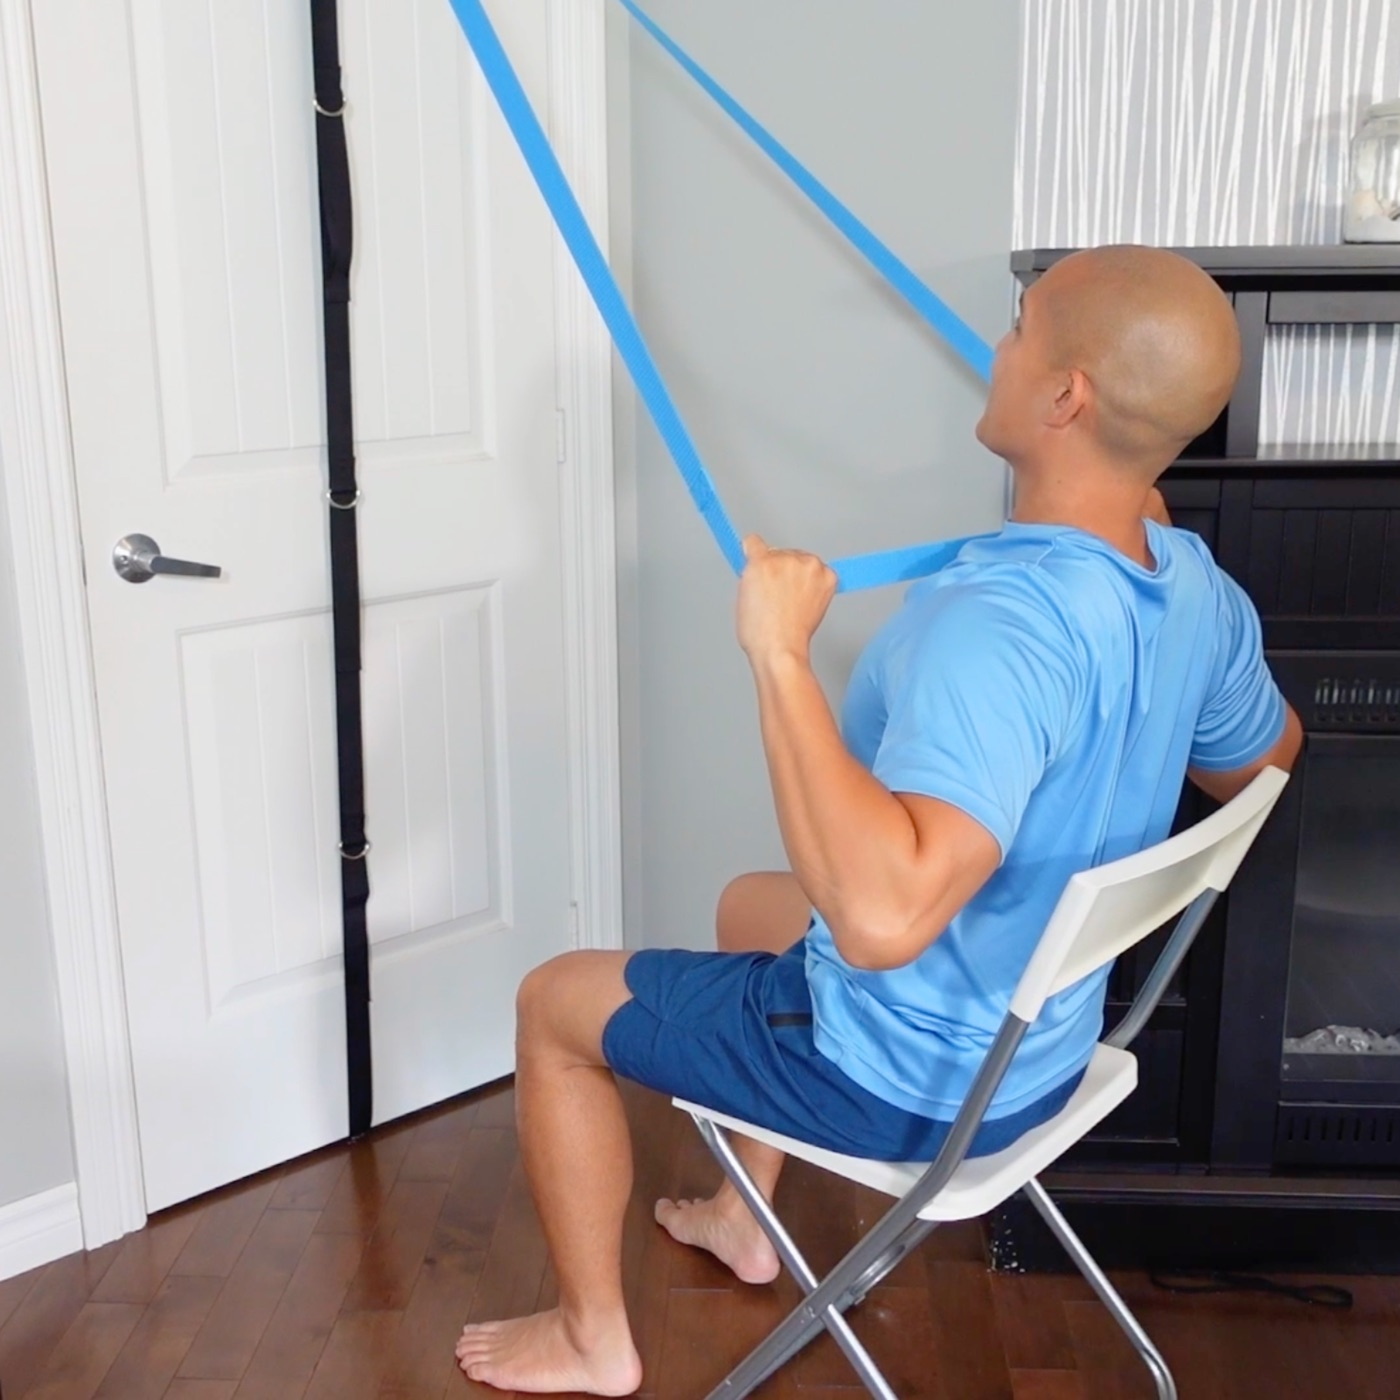
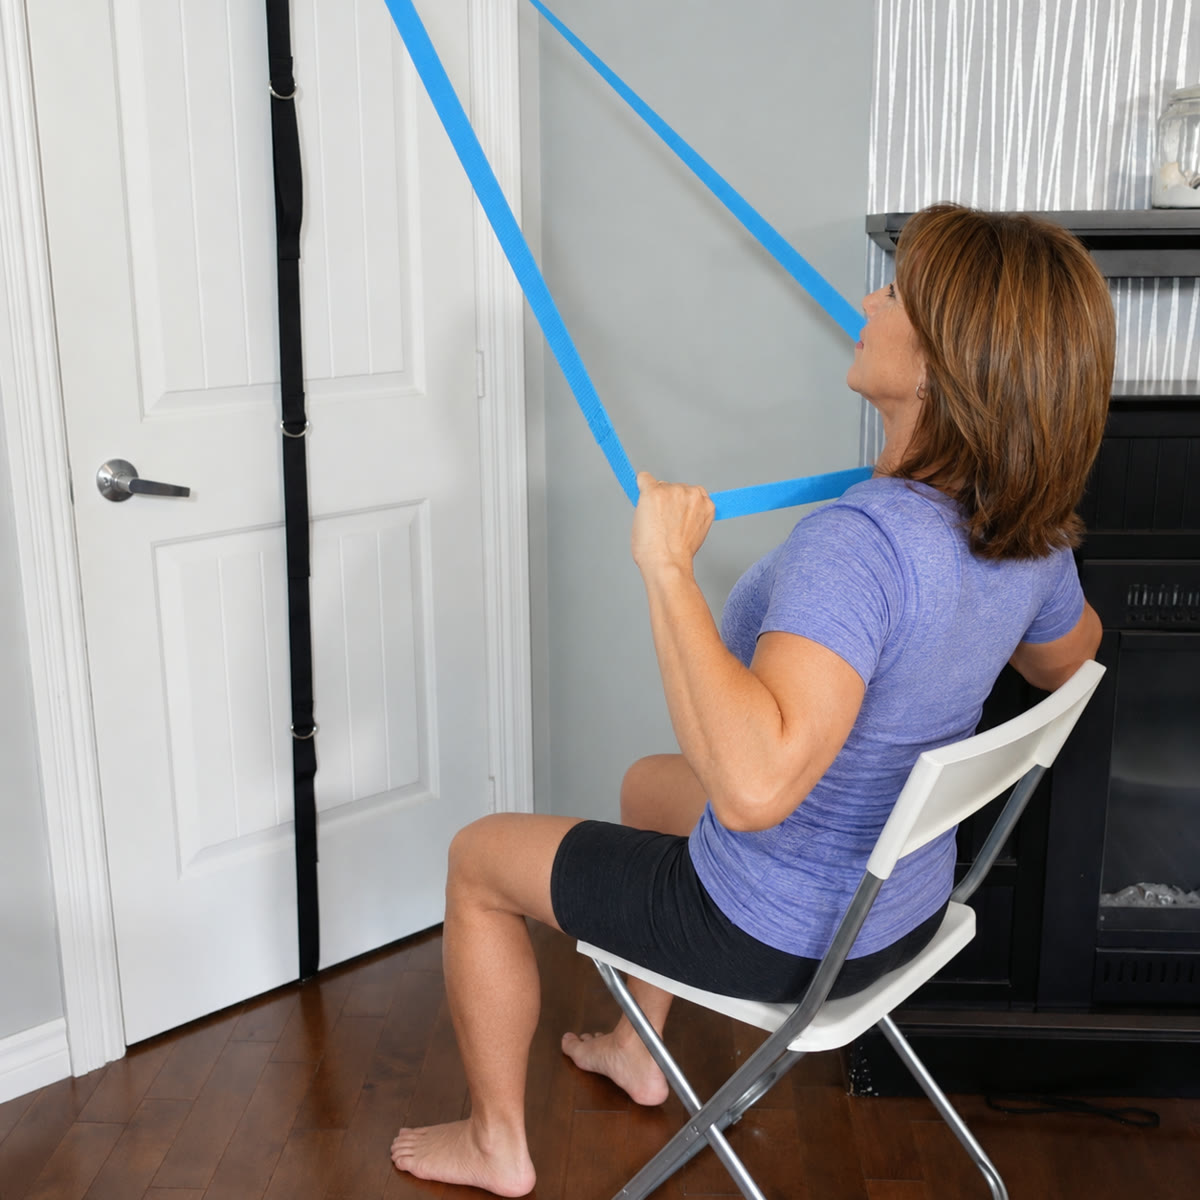
Swap in revised product and model photography; reword closing CTA

diff --git a/index.html b/index.html
@@ -10,12 +10,12 @@
 <meta property="og:type" content="product">
 <meta property="og:title" content="JA Beginner Bands | Start your fitness journey with confidence.">
 <meta property="og:description" content="Six soft-fabric resistance bands built for total beginners. Gentle on joints, kind to skin. Rated 4.6★ by 190+ Amazon customers.">
-<meta property="og:image" content="assets/img/kit.jpg">
+<meta property="og:image" content="assets/img/kit.jpg?v=2">
 
 <link rel="preconnect" href="https://fonts.googleapis.com">
 <link rel="preconnect" href="https://fonts.gstatic.com" crossorigin>
 <link href="https://fonts.googleapis.com/css2?family=Inter:wght@700;800&family=Source+Sans+3:ital,wght@0,400..700;1,400..600&display=swap" rel="stylesheet">
-<link rel="stylesheet" href="styles.css?v=12">
+<link rel="stylesheet" href="styles.css?v=13">
 
 <script type="application/ld+json">
 {
@@ -24,7 +24,7 @@
   "name": "JA Beginner Bands, Set of 6",
   "brand": { "@type": "Brand", "name": "JA Beginner Bands" },
   "description": "Set of 6 soft-fabric resistance bands designed for total beginners, seniors and people with limited mobility. Includes door attachment, travel pouch and free workout videos by Justin Agustin.",
-  "image": "assets/img/kit.jpg",
+  "image": "assets/img/kit.jpg?v=2",
   "aggregateRating": { "@type": "AggregateRating", "ratingValue": "4.6", "reviewCount": "193" },
   "offers": [
     { "@type": "Offer", "priceCurrency": "USD", "price": "49.99", "availability": "https://schema.org/InStock", "url": "https://www.amazon.com/dp/B0DLPWCJYR" },
@@ -226,7 +226,7 @@
 
     <div class="inside__grid">
       <figure class="inside__fig rv">
-        <img src="assets/img/kit.jpg" alt="The full Beginner Bands set on a kitchen counter: the blue box, three wide loop bands and three long bands in grey, blue and navy, plus the black door anchor" width="1700" height="1700" loading="lazy">
+        <img class="cutout" src="assets/img/kit.jpg?v=2" alt="The full Beginner Bands set: the blue box, three short wide bands and three long bands in grey, blue and navy, plus the black door attachment" width="1200" height="1200" loading="lazy">
       </figure>
 
       <ol class="inside__list">
@@ -274,7 +274,7 @@
 <section class="sec fabric" id="fabric">
   <div class="wrap fabric__in">
     <figure class="fabric__fig rv">
-      <img src="assets/img/fabric.jpg" alt="Justin Agustin seated, exercising with a blue fabric band looped under both feet" width="1400" height="1400" loading="lazy">
+      <img src="assets/img/fabric.jpg?v=2" alt="A woman seated in her living room, straightening one leg against a soft lilac band looped around her feet" width="1200" height="1200" loading="lazy">
       <figcaption>Woven cotton blend with a soft matte finish.</figcaption>
     </figure>
 
@@ -326,7 +326,7 @@
     </div>
 
     <figure class="steps__shot rv">
-      <img src="assets/img/door.jpg" alt="Justin Agustin seated, gently pulling a blue band attached to the top of a door" width="1400" height="1400" loading="lazy">
+      <img src="assets/img/door.jpg?v=2" alt="A woman seated on a chair, pulling a blue band down from the door attachment" width="1200" height="1200" loading="lazy">
       <figcaption>Upgrade your door in minutes. The attachment is ideal for doors up to 7 feet tall (84").</figcaption>
     </figure>
   </div>
@@ -455,7 +455,7 @@
 <!-- ───────────────────────── FINAL CTA ───────────────────────── -->
 <section class="cta">
   <div class="wrap cta__in">
-    <h2 class="rv">The hardest step<br><em>is the first one.</em></h2>
+    <h2 class="rv">Every journey begins<br><em>with one small step.</em></h2>
     <p class="rv">Available now on Amazon, shipping across the USA and Canada. Six bands, a door attachment, a travel pouch and five free workout videos. Everything you need to start this week.</p>
 
     <div class="rv">
@@ -490,22 +490,22 @@
     <ul class="gallery gallery--ig">
       <li class="rv" data-rv="1">
         <a href="https://www.instagram.com/beginnerbands" target="_blank" rel="noopener" aria-label="Seated arm exercise, view on Instagram">
-          <img src="assets/img/justin-overhead.jpg" alt="Justin Agustin seated on a chair, stretching a blue band overhead with both hands" width="1400" height="1400" loading="lazy">
+          <img src="assets/img/use-overhead.jpg" alt="A woman seated on a chair in her living room, holding a blue band stretched overhead" width="1100" height="1100" loading="lazy">
         </a>
       </li>
       <li class="rv" data-rv="2">
         <a href="https://www.instagram.com/beginnerbands" target="_blank" rel="noopener" aria-label="Seated pulling exercise, view on Instagram">
-          <img src="assets/img/justin-fly.jpg" alt="Justin Agustin seated, pulling a blue band outward across his chest" width="1400" height="1400" loading="lazy">
+          <img src="assets/img/use-chest.jpg" alt="A woman seated, pulling a blue band outward across her chest" width="1100" height="1100" loading="lazy">
         </a>
       </li>
       <li class="rv" data-rv="3">
         <a href="https://www.instagram.com/beginnerbands" target="_blank" rel="noopener" aria-label="Standing leg exercise, view on Instagram">
-          <img src="assets/img/justin-legs.jpg" alt="Justin Agustin standing with a blue band around his ankle, lifting one leg out to the side" width="1400" height="1400" loading="lazy">
+          <img src="assets/img/use-leg.jpg" alt="A woman standing with a blue band around her ankle, lifting one leg out to the side" width="1100" height="1100" loading="lazy">
         </a>
       </li>
       <li class="rv" data-rv="4">
         <a href="https://www.instagram.com/beginnerbands" target="_blank" rel="noopener" aria-label="The full set, view on Instagram">
-          <img src="assets/img/lineup.jpg" alt="The full set of six Beginner Bands with the phone showing a workout video" width="1400" height="1400" loading="lazy">
+          <img src="assets/img/kitchen.jpg" alt="Two women smiling behind the Beginner Bands box and the full set on a kitchen counter" width="1100" height="1100" loading="lazy">
         </a>
       </li>
     </ul>
@@ -556,7 +556,7 @@
 <div class="bbar" id="bbar" hidden>
   <div class="bbar__in">
     <div class="bbar__info">
-      <img src="assets/img/lineup.jpg" alt="" width="48" height="48">
+      <img src="assets/img/kit.jpg?v=2" alt="" width="48" height="48">
       <div>
         <b>Beginner Bands · Set of 6</b>
         <span class="js-price-plain"></span>

diff --git a/styles.css b/styles.css
@@ -587,6 +587,8 @@ h1 em{color:var(--blue-600)}
   border:1px solid var(--line)}
 @media (max-width:939px){.inside__fig{position:static}}
 .inside__fig img{width:100%}
+/* white-background product shot: multiply melts the white into the card */
+.cutout{mix-blend-mode:multiply}
 
 .inside__list{list-style:none;margin:0;padding:0;counter-reset:i}
 .inside__list li{
